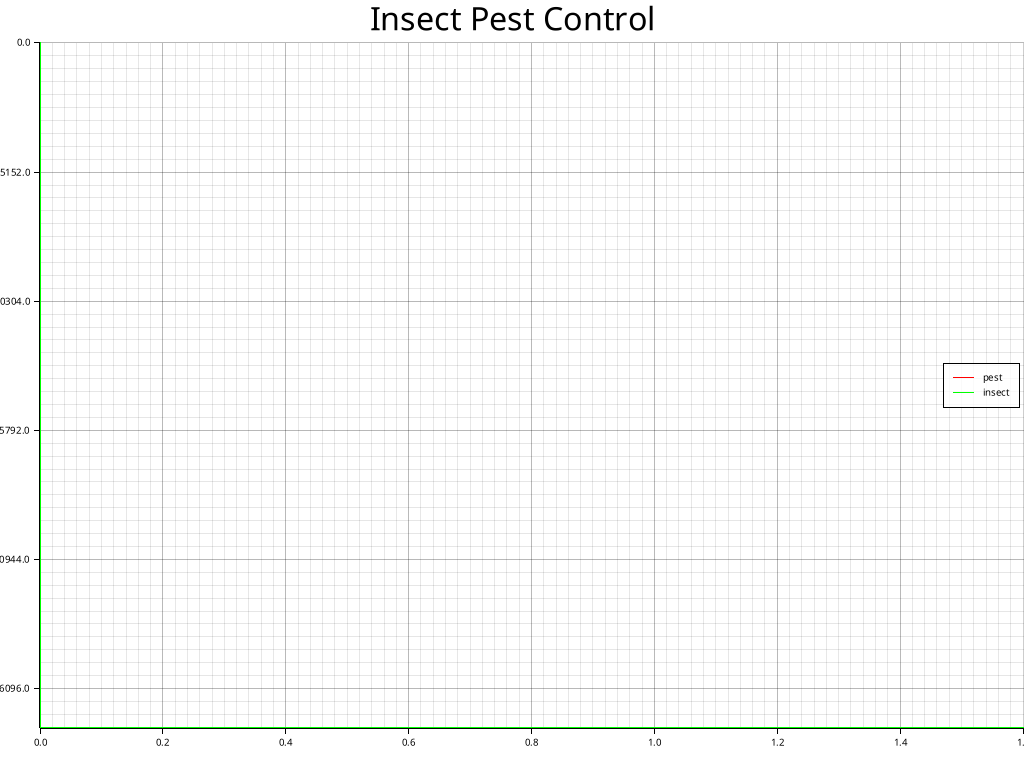
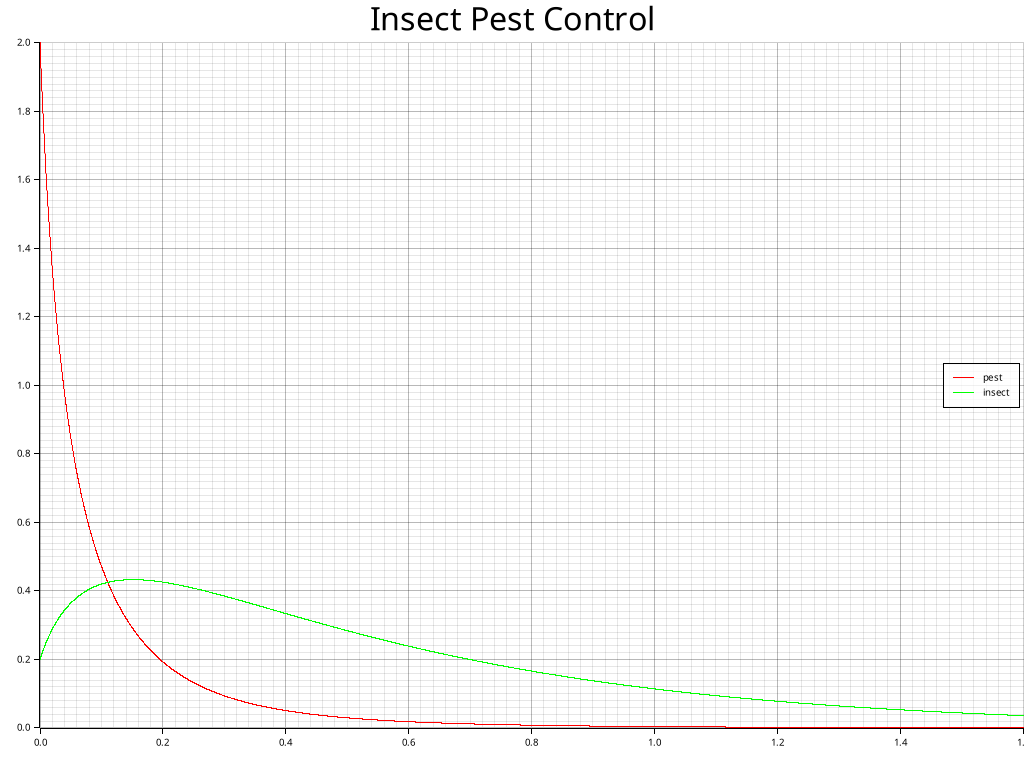
added all models now time to make the website

Changed region(s): [[0.0, 0.0625, 1.0, 0.9688]]

diff --git a/src/models/rabies_pest.rs b/src/models/rabies_pest.rs
@@ -1,0 +1,51 @@
+use crate::models::ChartDrawer;
+use crate::ode_solvers::ODESolver2;
+use ndarray::Array1;
+
+pub fn rabies_pest1(ode_solver: ODESolver2, chart_drawer: ChartDrawer) {
+    let (r, beta, u, k) = (0.1, 0.1, 10., 100.);
+    let (s0, i0, tn, n_steps) = (100., 10., 1., 10000);
+    let ds_by_dt = |_: f64, s: f64, i: f64| r * (s + i) * (1. - s / k) - beta * s * i;
+    let di_by_dt = |_: f64, s: f64, i: f64| beta * s * i - u * i;
+
+    let t = Array1::linspace(0., tn, n_steps);
+    let (st, it) = ode_solver.solve(ds_by_dt, di_by_dt, tn / n_steps as f64, n_steps, &t, s0, i0);
+
+    chart_drawer(
+        "plots/rabies_pest1.png",
+        "Rabies Pest 1",
+        vec![(t.clone(), st, "susceptible"), (t, it, "infective")],
+    )
+}
+
+pub fn rabies_pest2(ode_solver: ODESolver2, chart_drawer: ChartDrawer) {
+    let (r, beta, u, k, c) = (0.1, 0.1, 10., 100., 10.);
+    let (s0, i0, tn, n_steps) = (100., 10., 1., 10000);
+    let ds_by_dt = |_: f64, s: f64, i: f64| r * (s + i) * (1. - s / k) - beta * s * i - c * s;
+    let di_by_dt = |_: f64, s: f64, i: f64| beta * s * i - u * i - c * i;
+
+    let t = Array1::linspace(0., tn, n_steps);
+    let (st, it) = ode_solver.solve(ds_by_dt, di_by_dt, tn / n_steps as f64, n_steps, &t, s0, i0);
+
+    chart_drawer(
+        "plots/rabies_pest2.png",
+        "Rabies Pest 2",
+        vec![(t.clone(), st, "susceptible"), (t, it, "infective")],
+    )
+}
+
+pub fn rabies_pest3(ode_solver: ODESolver2, chart_drawer: ChartDrawer) {
+    let (r, beta, u, k, v) = (0.1, 0.1, 10., 100., 10.);
+    let (s0, i0, tn, n_steps) = (100., 10., 1., 10000);
+    let ds_by_dt = |_: f64, s: f64, i: f64| r * (s + i) * (1. - s / k) - beta * (1. - v) * s * i;
+    let di_by_dt = |_: f64, s: f64, i: f64| beta * (1. - v) * s * i - u * i;
+
+    let t = Array1::linspace(0., tn, n_steps);
+    let (st, it) = ode_solver.solve(ds_by_dt, di_by_dt, tn / n_steps as f64, n_steps, &t, s0, i0);
+
+    chart_drawer(
+        "plots/rabies_pest3.png",
+        "Rabies Pest 3",
+        vec![(t.clone(), st, "susceptible"), (t, it, "infective")],
+    )
+}

diff --git a/src/main.rs b/src/main.rs
@@ -6,16 +6,25 @@ mod models;
 mod ode_solvers;
 
 fn main() {
-    // let solver = ODESolver1::new(SolverMethod::Three8th);
-    // models::bacteria_growth(solver, draw_bitmap_line_chart);
-    // models::gompertz(solver, draw_bitmap_line_chart);
-    // models::demographic(solver, draw_bitmap_line_chart);
-    // models::seasonal_capacity(solver, draw_bitmap_line_chart);
-    // models::constant_rate_harvesting(solver, draw_bitmap_line_chart);
-    // models::optimal_harvesting(solver, draw_bitmap_line_chart);
-    // models::generalist_vs_specialist_predator(solver, draw_bitmap_line_chart);
+    let solver1 = ODESolver1::new(SolverMethod::Three8th);
+    let solver2 = ODESolver2::new(SolverMethod::ForwardEuler);
 
-    let solver = ODESolver2::new(SolverMethod::Classic4);
-    // models::insect_pest_control(solver, draw_bitmap_line_chart);
-    models::lotka_volterra(solver, draw_bitmap_line_chart);
+    models::bacteria_growth(solver1, draw_bitmap_line_chart);
+    models::gompertz(solver1, draw_bitmap_line_chart);
+    models::demographic(solver1, draw_bitmap_line_chart);
+    models::seasonal_capacity(solver1, draw_bitmap_line_chart);
+    models::constant_rate_harvesting(solver1, draw_bitmap_line_chart);
+    models::optimal_harvesting(solver1, draw_bitmap_line_chart);
+    models::generalist_vs_specialist_predator(solver1, draw_bitmap_line_chart);
+    models::pest_control1(solver2, draw_bitmap_line_chart);
+    models::pest_control2(solver2, draw_bitmap_line_chart);
+    models::lotka_volterra(solver2, draw_bitmap_line_chart);
+    models::logistic_predator_prey(solver2, draw_bitmap_line_chart);
+    models::competition_model(solver2, draw_bitmap_line_chart);
+    models::another_competition_model(solver2, draw_bitmap_line_chart);
+    models::mutualism1(solver2, draw_bitmap_line_chart);
+    models::mutualism2(solver2, draw_bitmap_line_chart);
+    models::rabies_pest1(solver2, draw_bitmap_line_chart);
+    models::rabies_pest2(solver2, draw_bitmap_line_chart);
+    models::rabies_pest3(solver2, draw_bitmap_line_chart);
 }

diff --git a/src/models/mutualism.rs b/src/models/mutualism.rs
@@ -1,0 +1,35 @@
+use crate::models::ChartDrawer;
+use crate::ode_solvers::ODESolver2;
+use ndarray::Array1;
+
+pub fn mutualism1(ode_solver: ODESolver2, chart_drawer: ChartDrawer) {
+    let (alpha1, beta1, alpha2, beta2) = (15., 0.1, 10.0, 0.01);
+    let (n0, p0, tn, n_steps) = (2000., 100., 1., 10000);
+    let dn_by_dt = |_: f64, n: f64, p: f64| alpha1 * n * (1. + beta1 * p);
+    let dp_by_dt = |_: f64, n: f64, p: f64| alpha2 * p * (1. + beta2 * n);
+
+    let t = Array1::linspace(0., tn, n_steps);
+    let (nt, pt) = ode_solver.solve(dn_by_dt, dp_by_dt, tn / n_steps as f64, n_steps, &t, n0, p0);
+
+    chart_drawer(
+        "plots/mutualism1.png",
+        "Mutualism 1",
+        vec![(t.clone(), nt, "n"), (t, pt, "p")],
+    );
+}
+
+pub fn mutualism2(ode_solver: ODESolver2, chart_drawer: ChartDrawer) {
+    let (alpha1, beta1, k1, alpha2, beta2, k2) = (15., 0.1, 300., 10.0, 0.01, 400.);
+    let (n0, p0, tn, n_steps) = (2000., 100., 1., 10000);
+    let dn_by_dt = |_: f64, n: f64, p: f64| alpha1 * n * (1. - (n - beta1 * p) / k1);
+    let dp_by_dt = |_: f64, n: f64, p: f64| alpha2 * p * (1. - (p - beta2 * n) / k2);
+
+    let t = Array1::linspace(0., tn, n_steps);
+    let (nt, pt) = ode_solver.solve(dn_by_dt, dp_by_dt, tn / n_steps as f64, n_steps, &t, n0, p0);
+
+    chart_drawer(
+        "plots/mutualism2.png",
+        "Mutualism 2",
+        vec![(t.clone(), nt, "n"), (t, pt, "p")],
+    );
+}

diff --git a/src/models/insect_pest_control.rs b/src/models/insect_pest_control.rs
@@ -2,12 +2,27 @@ use super::ChartDrawer;
 use crate::ode_solvers::ODESolver2;
 use ndarray::Array1;
 
-pub fn insect_pest_control(ode_solver: ODESolver2, chart_drawer: ChartDrawer) {
+pub fn pest_control1(ode_solver: ODESolver2, chart_drawer: ChartDrawer) {
+    let (a, b, k) = (1., 2., 10.);
+    let (N0, n0, tn, n_steps) = (2., 0.2, 1.6, 10000);
+    let dN_by_dt = |_: f64, N: f64, n: f64| (a * N / (N + n) - b) * N - k * N * (N + n);
+    let dn_by_dt = |_: f64, _: f64, n: f64| -b * n;
+
+    let t = Array1::linspace(0., tn, n_steps);
+    let (Nt, nt) = ode_solver.solve(dN_by_dt, dn_by_dt, tn / n_steps as f64, n_steps, &t, N0, n0);
+
+    chart_drawer(
+        "plots/insect_pest_control.png",
+        "Insect Pest Control",
+        vec![(t.clone(), Nt, "pest"), (t, nt, "insect")],
+    );
+}
+
+pub fn pest_control2(ode_solver: ODESolver2, chart_drawer: ChartDrawer) {
     let (a, b, gamma, k) = (1., 2., 3., 10.);
     let (N0, n0, tn, n_steps) = (2., 0.2, 1.6, 10000);
     let dN_by_dt = |_: f64, N: f64, n: f64| (a * N / (N + n) - b) * N - k * N * (N + n);
     let dn_by_dt = |_: f64, N: f64, n: f64| gamma * N - b * n;
-    let dn_by_dt_malthusian = |_: f64, _: f64, n: f64| -b * n;
 
     let t = Array1::linspace(0., tn, n_steps);
     let (Nt, nt) = ode_solver.solve(dN_by_dt, dn_by_dt, tn / n_steps as f64, n_steps, &t, N0, n0);

diff --git a/src/models/mod.rs b/src/models/mod.rs
@@ -1,22 +1,33 @@
+mod another_competition_model;
 mod bacteria_growth;
+mod competition_model;
 mod constant_rate_harvesting;
 mod demographic;
 mod generalist_vs_specialist;
 mod gompertz;
 mod insect_pest_control;
+mod logistic_predator_prey;
 mod lotka_volterra;
+mod mutualism;
 mod optimal_harvesting;
+mod rabies_pest;
 mod seasonal_capacity;
 
+pub use another_competition_model::another_competition_model;
 pub use bacteria_growth::bacteria_growth;
+pub use competition_model::competition_model;
 pub use constant_rate_harvesting::constant_rate_harvesting;
 pub use demographic::demographic;
 pub use generalist_vs_specialist::generalist_vs_specialist_predator;
 pub use gompertz::gompertz;
-pub use insect_pest_control::insect_pest_control;
+pub use insect_pest_control::{pest_control1, pest_control2};
+pub use logistic_predator_prey::logistic_predator_prey;
 pub use lotka_volterra::lotka_volterra;
-use ndarray::Array1;
+pub use mutualism::{mutualism1, mutualism2};
 pub use optimal_harvesting::optimal_harvesting;
+pub use rabies_pest::{rabies_pest1, rabies_pest2, rabies_pest3};
 pub use seasonal_capacity::seasonal_capacity;
+
+use ndarray::Array1;
 
 type ChartDrawer = fn(&str, &str, Vec<(Array1<f64>, Array1<f64>, &str)>);

diff --git a/src/models/another_competition_model.rs b/src/models/another_competition_model.rs
@@ -1,0 +1,19 @@
+use crate::models::ChartDrawer;
+use crate::ode_solvers::ODESolver2;
+use ndarray::Array1;
+
+pub fn another_competition_model(ode_solver: ODESolver2, chart_drawer: ChartDrawer) {
+    let (alpha1, beta1, gamma1, alpha2, beta2, gamma2) = (15., 0.1, 500., 10.0, 0.01, 600.);
+    let (n0, p0, tn, n_steps) = (2000., 100., 1., 10000);
+    let dn_by_dt = |_: f64, n: f64, p: f64| (alpha1 - gamma1 * (beta1 * n + beta2 * p)) * n;
+    let dp_by_dt = |_: f64, n: f64, p: f64| (alpha1 - gamma1 * (beta1 * n + beta2 * p)) * p;
+
+    let t = Array1::linspace(0., tn, n_steps);
+    let (nt, pt) = ode_solver.solve(dn_by_dt, dp_by_dt, tn / n_steps as f64, n_steps, &t, n0, p0);
+
+    chart_drawer(
+        "plots/another_competition_model.png",
+        "Competition Model",
+        vec![(t.clone(), nt, "n"), (t, pt, "p")],
+    );
+}

diff --git a/src/models/competition_model.rs b/src/models/competition_model.rs
@@ -1,0 +1,19 @@
+use crate::models::ChartDrawer;
+use crate::ode_solvers::ODESolver2;
+use ndarray::Array1;
+
+pub fn competition_model(ode_solver: ODESolver2, chart_drawer: ChartDrawer) {
+    let (alpha1, beta1, k1, alpha2, beta2, k2) = (15., 0.1, 500., 10.0, 0.01, 600.);
+    let (n0, p0, tn, n_steps) = (2000., 100., 1., 10000);
+    let dn_by_dt = |_: f64, n: f64, p: f64| alpha1 * n * (1. - (n + beta1 * p) / k1);
+    let dp_by_dt = |_: f64, n: f64, p: f64| alpha2 * p * (1. - (p + beta2 * n) / k2);
+
+    let t = Array1::linspace(0., tn, n_steps);
+    let (nt, pt) = ode_solver.solve(dn_by_dt, dp_by_dt, tn / n_steps as f64, n_steps, &t, n0, p0);
+
+    chart_drawer(
+        "plots/competition_model.png",
+        "Competition Model",
+        vec![(t.clone(), nt, "n"), (t, pt, "p")],
+    );
+}

diff --git a/src/models/logistic_predator_prey.rs b/src/models/logistic_predator_prey.rs
@@ -1,0 +1,19 @@
+use crate::models::ChartDrawer;
+use crate::ode_solvers::ODESolver2;
+use ndarray::Array1;
+
+pub fn logistic_predator_prey(ode_solver: ODESolver2, chart_drawer: ChartDrawer) {
+    let (alpha1, beta, alpha2, gamma, k) = (15., 0.1, 10.0, 0.01, 200.);
+    let (n0, p0, tn, n_steps) = (2000., 100., 1., 10000);
+    let dn_by_dt = |_: f64, n: f64, p: f64| alpha1 * n * (1. - n / k - beta * p);
+    let dp_by_dt = |_: f64, n: f64, p: f64| -alpha2 * p * (1. - gamma * n);
+
+    let t = Array1::linspace(0., tn, n_steps);
+    let (nt, pt) = ode_solver.solve(dn_by_dt, dp_by_dt, tn / n_steps as f64, n_steps, &t, n0, p0);
+
+    chart_drawer(
+        "plots/logistic_predator_prey.png",
+        "Logistic Predator Prey",
+        vec![(t.clone(), nt, "preys"), (t, pt, "predator")],
+    );
+}

diff --git a/src/models/lotka_volterra.rs b/src/models/lotka_volterra.rs
@@ -9,10 +9,7 @@ pub fn lotka_volterra(ode_solver: ODESolver2, chart_drawer: ChartDrawer) {
     let dp_by_dt = |_: f64, n: f64, p: f64| -alpha2 * p + beta2 * n * p;
 
     let t = Array1::linspace(0., tn, n_steps);
-
-    println!("solving ode");
     let (nt, pt) = ode_solver.solve(dn_by_dt, dp_by_dt, tn / n_steps as f64, n_steps, &t, n0, p0);
-    println!("ode solved");
 
     chart_drawer(
         "plots/lotka_volterra_model.png",
